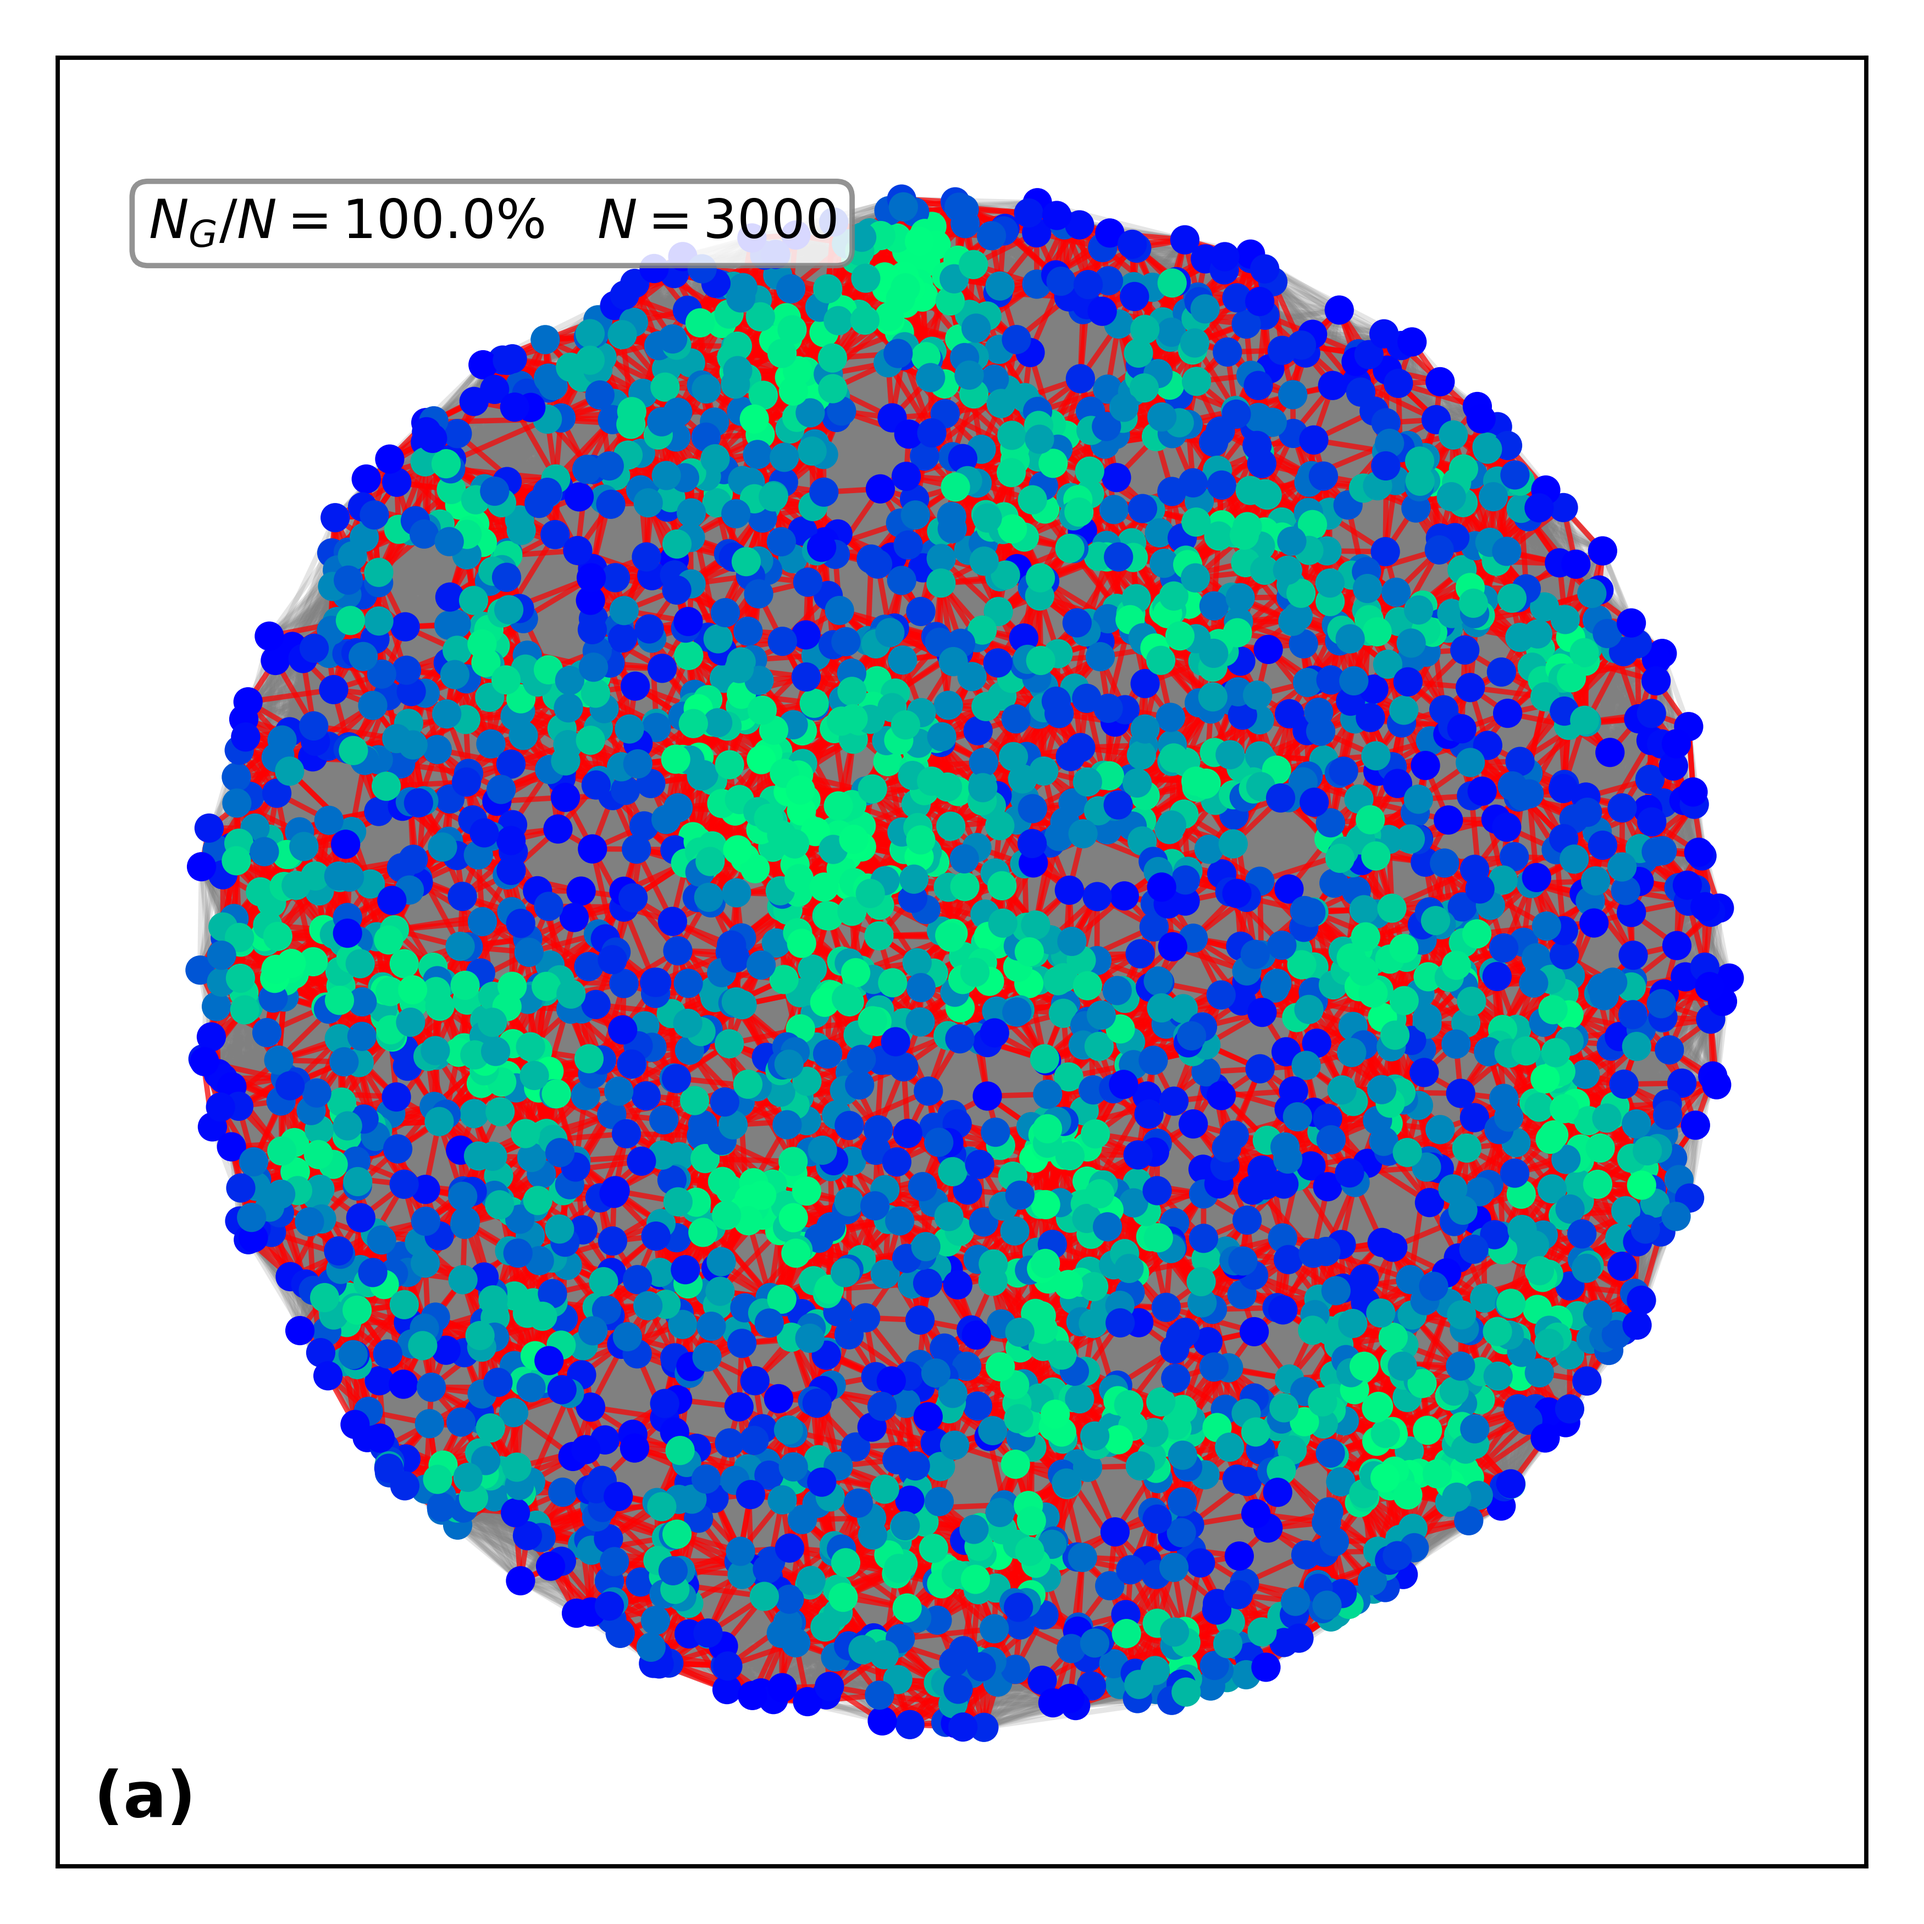
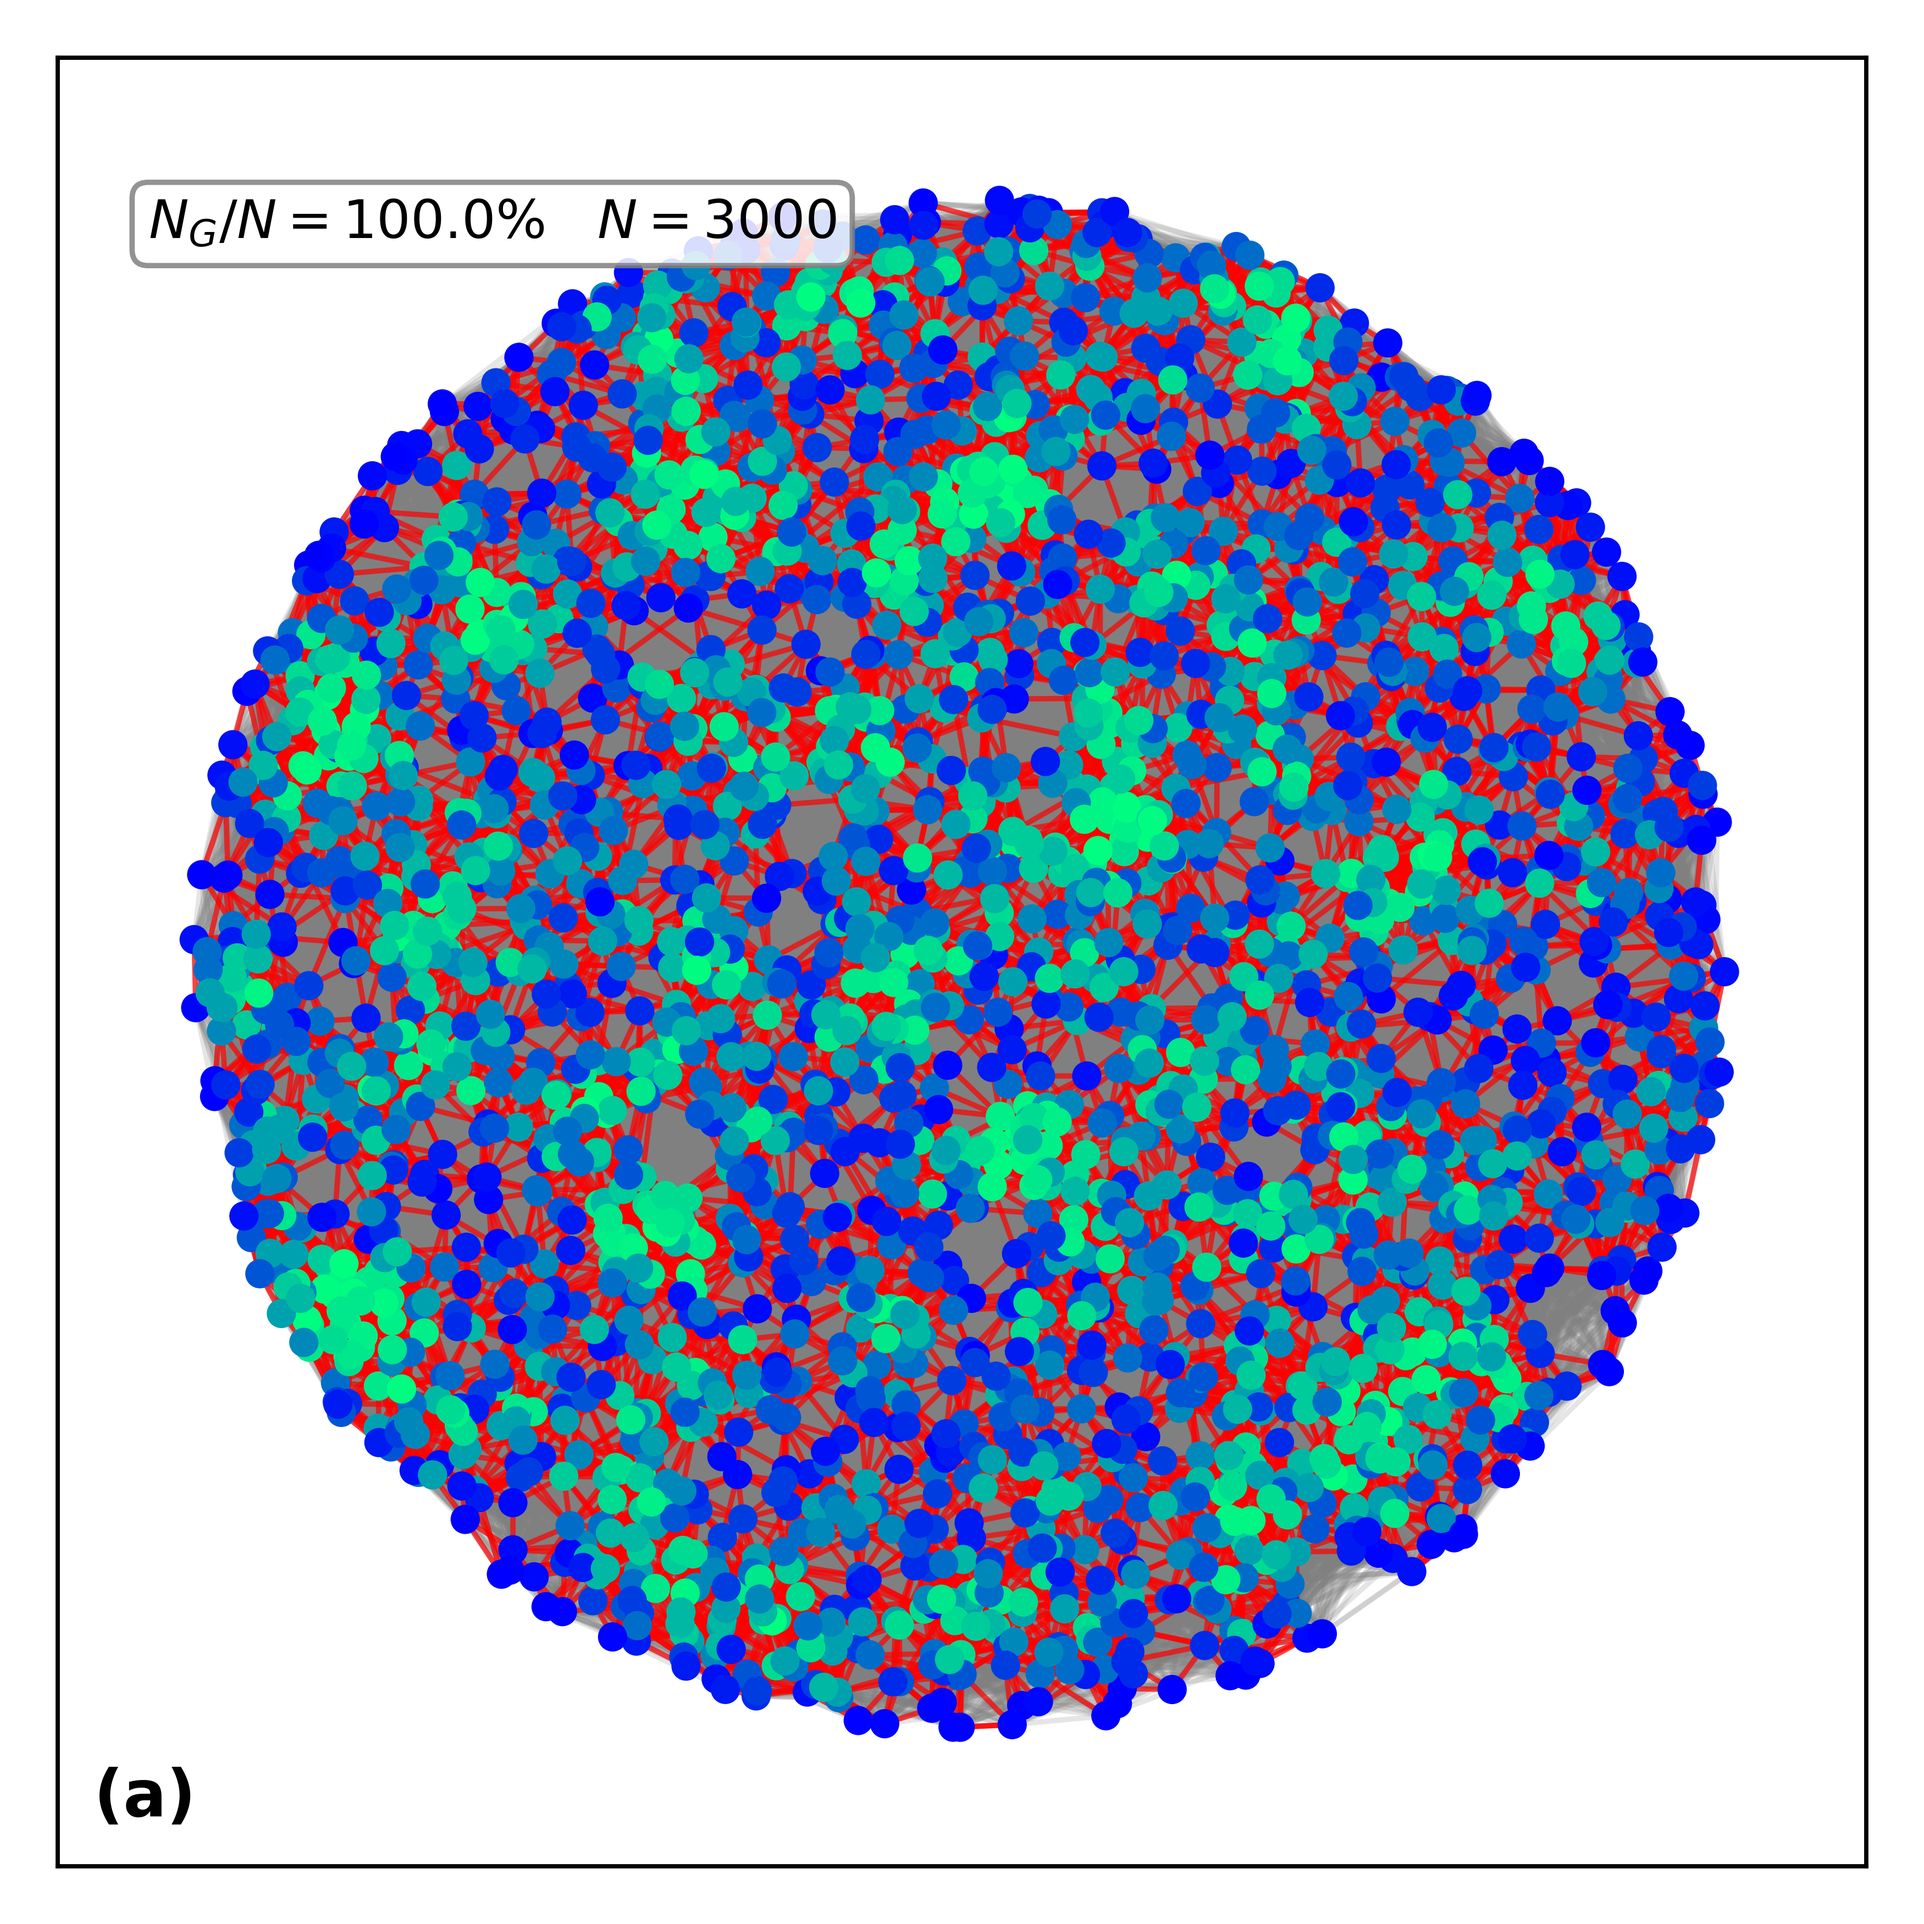
quantum-network

diff --git a/spp-general/quantum-network-simulator/tests/test_simulator.py b/spp-general/quantum-network-simulator/tests/test_simulator.py
@@ -1,7 +1,56 @@
+import os
+import networkx as nx
+import matplotlib
 from quantum_network.simulator import QuantumNetworkSimulator
 
-def test_generate_graph():
+matplotlib.use("Agg")  
+
+def test_generate_waxman_graph():
     sim = QuantumNetworkSimulator()
-    G, nodes = sim.generate_waxman_graph(50)
-    assert len(G.nodes) == 50
-    assert nodes.shape == (50, 2)
+    G, nodes = sim.generate_waxman_graph(30)
+
+    # Check number of nodes
+    assert len(G.nodes) == 30
+
+    # Check shape of node coordinates
+    assert nodes.shape == (30, 2)
+
+    # All edges should have positive weights
+    for _, _, data in G.edges(data=True):
+        assert data["weight"] > 0
+
+
+def test_generate_photonic_network():
+    sim = QuantumNetworkSimulator()
+    G, nodes = sim.generate_waxman_graph(20)
+    H = sim.generate_photonic_network(G, nodes)
+
+    # H must contain the same nodes as G
+    assert set(H.nodes) == set(G.nodes)
+
+    # All edges in H must also exist in G
+    for u, v in H.edges:
+        assert G.has_edge(u, v)
+
+
+def test_calculate_largest_cluster_size_empty():
+    sim = QuantumNetworkSimulator()
+    G = nx.Graph()  # empty graph
+    assert sim.calculate_largest_cluster_size(G) == 0
+
+
+def test_calculate_largest_cluster_size_connected():
+    sim = QuantumNetworkSimulator()
+    G = nx.path_graph(5)  # connected graph
+    assert sim.calculate_largest_cluster_size(G) == 5
+
+
+def test_run_single_simulation_creates_file(tmp_path):
+    sim = QuantumNetworkSimulator()
+    filename = tmp_path / "test_network.png"
+
+    sim.run_single_simulation(N=10, filename=str(filename))
+
+    # The file should exist and not be empty
+    assert filename.exists()
+    assert filename.stat().st_size > 0
